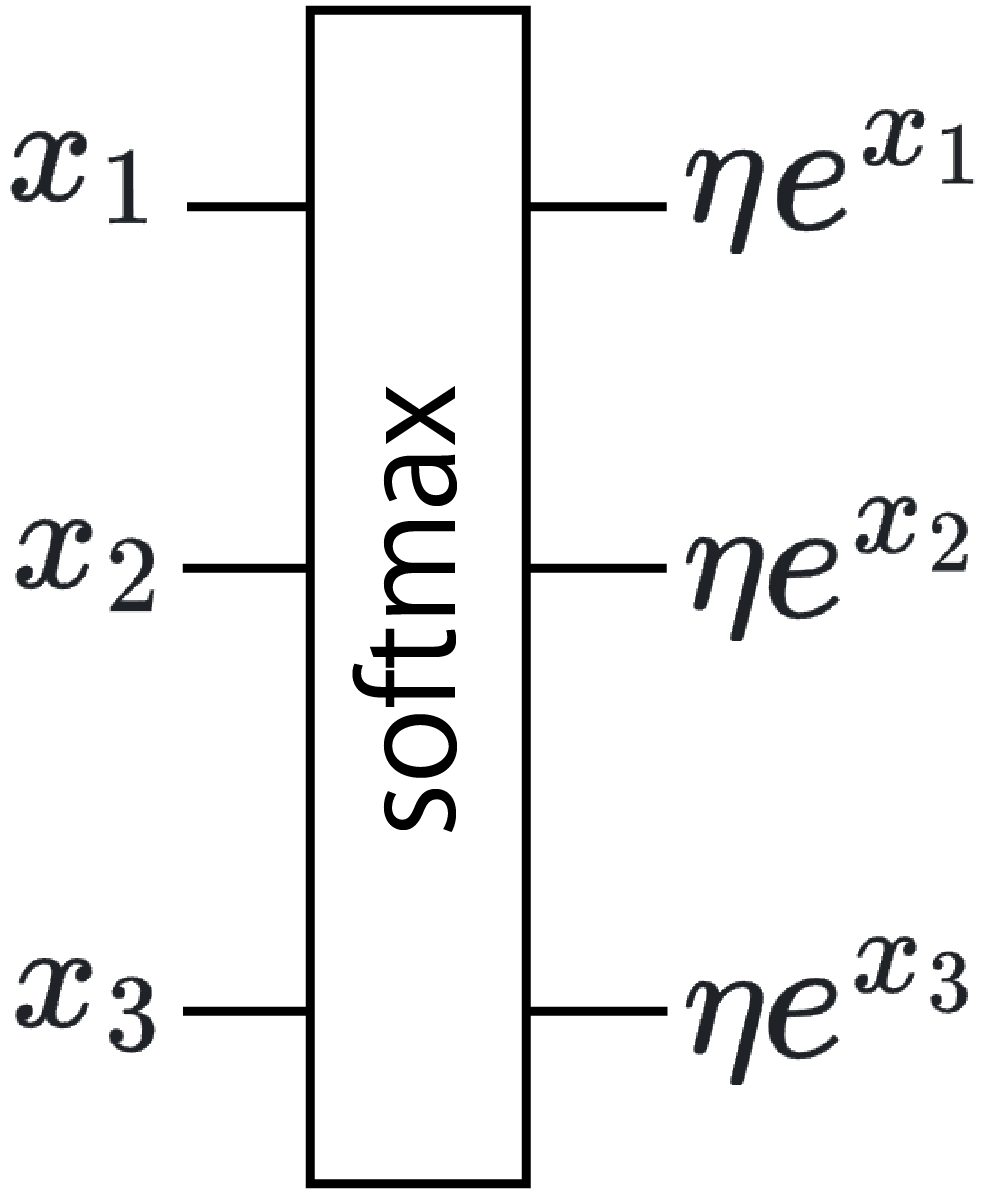
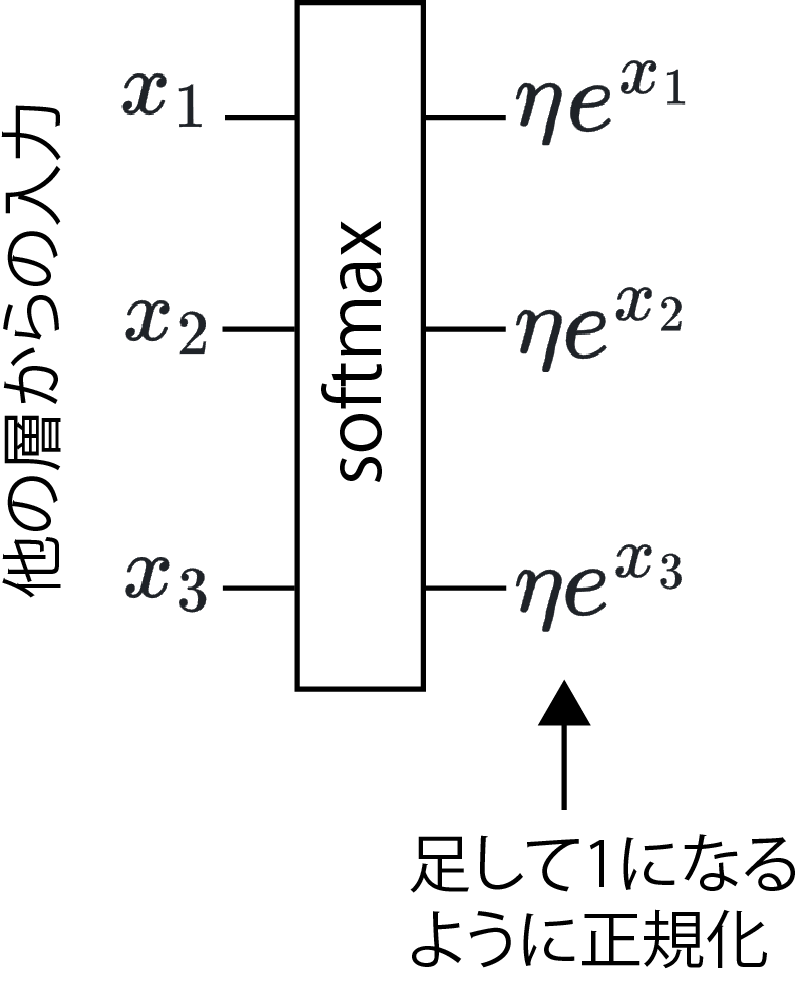
Writing

Changed region(s): [[0.1562, 0.0, 1.0, 1.0], [0.0, 0.0914, 0.1562, 0.6091], [0.0, 0.7919, 0.1562, 0.8832]]

diff --git a/machine_learning_2026/lesson9.html b/machine_learning_2026/lesson9.html
@@ -29,10 +29,14 @@
 </foreignObject></svg><svg data-marpit-svg="" viewBox="0 0 1280 720"><foreignObject width="1280" height="720"><section data-footer="機械学習第8回" data-paginate="true" lang="ja-JP" data-marpit-pagination="3" style="--footer:機械学習第8回;--paginate:true;--marpit-advanced-background-split:20%;" data-marpit-pagination-total="41" data-marpit-advanced-background="background" data-marpit-advanced-background-split="right"><div data-marpit-advanced-background-container="true" data-marpit-advanced-background-direction="horizontal"><figure style="background-image:url(&quot;./figs/softmax_layer.png&quot;);background-size:95%;"></figure></div></section></foreignObject><foreignObject width="80%" height="720"><section id="3" data-footer="機械学習第8回" data-paginate="true" lang="ja-JP" data-marpit-pagination="3" style="--footer:機械学習第8回;--paginate:true;--marpit-advanced-background-split:20%;" data-marpit-pagination-total="41" data-marpit-advanced-background="content" data-marpit-advanced-background-split="right">
 <h3 id="%E6%9C%AC%E9%A1%8C%E3%81%AB%E5%85%A5%E3%82%8B%E5%89%8D%E3%81%AB-%E3%82%BD%E3%83%95%E3%83%88%E3%83%9E%E3%83%83%E3%82%AF%E3%82%B9%E5%B1%A4">本題に入る前に: ソフトマックス層</h3>
 <ul>
-<li>softmax（softな最大値）: 1つに決めないということ</li>
+<li>入力を<mjx-container class="MathJax" jax="SVG"><svg style="vertical-align: -0.489ex;" xmlns="http://www.w3.org/2000/svg" width="8.67ex" height="2.017ex" role="img" focusable="false" viewBox="0 -675.5 3832.2 891.5"><g stroke="currentColor" fill="currentColor" stroke-width="0" transform="scale(1,-1)"><g data-mml-node="math"><g data-mml-node="msub"><g data-mml-node="mi"><path data-c="1D466" d="M21 287Q21 301 36 335T84 406T158 442Q199 442 224 419T250 355Q248 336 247 334Q247 331 231 288T198 191T182 105Q182 62 196 45T238 27Q261 27 281 38T312 61T339 94Q339 95 344 114T358 173T377 247Q415 397 419 404Q432 431 462 431Q475 431 483 424T494 412T496 403Q496 390 447 193T391 -23Q363 -106 294 -155T156 -205Q111 -205 77 -183T43 -117Q43 -95 50 -80T69 -58T89 -48T106 -45Q150 -45 150 -87Q150 -107 138 -122T115 -142T102 -147L99 -148Q101 -153 118 -160T152 -167H160Q177 -167 186 -165Q219 -156 247 -127T290 -65T313 -9T321 21L315 17Q309 13 296 6T270 -6Q250 -11 231 -11Q185 -11 150 11T104 82Q103 89 103 113Q103 170 138 262T173 379Q173 380 173 381Q173 390 173 393T169 400T158 404H154Q131 404 112 385T82 344T65 302T57 280Q55 278 41 278H27Q21 284 21 287Z"></path></g><g data-mml-node="mi" transform="translate(523,-150) scale(0.707)"><path data-c="1D456" d="M184 600Q184 624 203 642T247 661Q265 661 277 649T290 619Q290 596 270 577T226 557Q211 557 198 567T184 600ZM21 287Q21 295 30 318T54 369T98 420T158 442Q197 442 223 419T250 357Q250 340 236 301T196 196T154 83Q149 61 149 51Q149 26 166 26Q175 26 185 29T208 43T235 78T260 137Q263 149 265 151T282 153Q302 153 302 143Q302 135 293 112T268 61T223 11T161 -11Q129 -11 102 10T74 74Q74 91 79 106T122 220Q160 321 166 341T173 380Q173 404 156 404H154Q124 404 99 371T61 287Q60 286 59 284T58 281T56 279T53 278T49 278T41 278H27Q21 284 21 287Z"></path></g></g><g data-mml-node="mo" transform="translate(1094.7,0)"><path data-c="3D" d="M56 347Q56 360 70 367H707Q722 359 722 347Q722 336 708 328L390 327H72Q56 332 56 347ZM56 153Q56 168 72 173H708Q722 163 722 153Q722 140 707 133H70Q56 140 56 153Z"></path></g><g data-mml-node="mi" transform="translate(2150.5,0)"><path data-c="1D702" d="M21 287Q22 290 23 295T28 317T38 348T53 381T73 411T99 433T132 442Q156 442 175 435T205 417T221 395T229 376L231 369Q231 367 232 367L243 378Q304 442 382 442Q436 442 469 415T503 336V326Q503 302 439 53Q381 -182 377 -189Q364 -216 332 -216Q319 -216 310 -208T299 -186Q299 -177 358 57L420 307Q423 322 423 345Q423 404 379 404H374Q288 404 229 303L222 291L189 157Q156 26 151 16Q138 -11 108 -11Q95 -11 87 -5T76 7T74 17Q74 30 114 189T154 366Q154 405 128 405Q107 405 92 377T68 316T57 280Q55 278 41 278H27Q21 284 21 287Z"></path></g><g data-mml-node="msup" transform="translate(2647.5,0)"><g data-mml-node="mi"><path data-c="1D452" d="M39 168Q39 225 58 272T107 350T174 402T244 433T307 442H310Q355 442 388 420T421 355Q421 265 310 237Q261 224 176 223Q139 223 138 221Q138 219 132 186T125 128Q125 81 146 54T209 26T302 45T394 111Q403 121 406 121Q410 121 419 112T429 98T420 82T390 55T344 24T281 -1T205 -11Q126 -11 83 42T39 168ZM373 353Q367 405 305 405Q272 405 244 391T199 357T170 316T154 280T149 261Q149 260 169 260Q282 260 327 284T373 353Z"></path></g><g data-mml-node="TeXAtom" transform="translate(499,363) scale(0.707)" data-mjx-texclass="ORD"><g data-mml-node="msub"><g data-mml-node="mi"><path data-c="1D465" d="M52 289Q59 331 106 386T222 442Q257 442 286 424T329 379Q371 442 430 442Q467 442 494 420T522 361Q522 332 508 314T481 292T458 288Q439 288 427 299T415 328Q415 374 465 391Q454 404 425 404Q412 404 406 402Q368 386 350 336Q290 115 290 78Q290 50 306 38T341 26Q378 26 414 59T463 140Q466 150 469 151T485 153H489Q504 153 504 145Q504 144 502 134Q486 77 440 33T333 -11Q263 -11 227 52Q186 -10 133 -10H127Q78 -10 57 16T35 71Q35 103 54 123T99 143Q142 143 142 101Q142 81 130 66T107 46T94 41L91 40Q91 39 97 36T113 29T132 26Q168 26 194 71Q203 87 217 139T245 247T261 313Q266 340 266 352Q266 380 251 392T217 404Q177 404 142 372T93 290Q91 281 88 280T72 278H58Q52 284 52 289Z"></path></g><g data-mml-node="mi" transform="translate(605,-150) scale(0.707)"><path data-c="1D456" d="M184 600Q184 624 203 642T247 661Q265 661 277 649T290 619Q290 596 270 577T226 557Q211 557 198 567T184 600ZM21 287Q21 295 30 318T54 369T98 420T158 442Q197 442 223 419T250 357Q250 340 236 301T196 196T154 83Q149 61 149 51Q149 26 166 26Q175 26 185 29T208 43T235 78T260 137Q263 149 265 151T282 153Q302 153 302 143Q302 135 293 112T268 61T223 11T161 -11Q129 -11 102 10T74 74Q74 91 79 106T122 220Q160 321 166 341T173 380Q173 404 156 404H154Q124 404 99 371T61 287Q60 286 59 284T58 281T56 279T53 278T49 278T41 278H27Q21 284 21 287Z"></path></g></g></g></g></g></g></svg></mjx-container>で正規化する層</li>
 <li>使用例: 画像に映ったものを判別
 <ul>
 <li>答えを断定せず確率で出力（例: 犬90%、猫9%、他1%）</li>
+</ul>
+</li>
+<li>softmax（softな最大値）: 1つに決めないということ
+<ul>
 <li>実世界は微妙な場面が多いので、1つに決めないで曖昧に出力したほうが都合よ&gt;い</li>
 </ul>
 </li>

diff --git a/machine_learning_2026/lesson9.md b/machine_learning_2026/lesson9.md
@@ -29,9 +29,10 @@ marp: true
 
 ### 本題に入る前に: ソフトマックス層
 
-- softmax（softな最大値）: 1つに決めないということ
+- 入力を$y_i = \eta e^{x_i}$で正規化する層
 - 使用例: 画像に映ったものを判別
     - 答えを断定せず確率で出力（例: 犬90%、猫9%、他1%）
+- softmax（softな最大値）: 1つに決めないということ
     - 実世界は微妙な場面が多いので、1つに決めないで曖昧に出力したほうが都合よ>い
 - 数式
     - 入力$\boldsymbol{x} = (x_1, x_2, \dots, x_n)$に対し<span style="color:red">$y_i = \eta e^{x_i}$</span>を出力